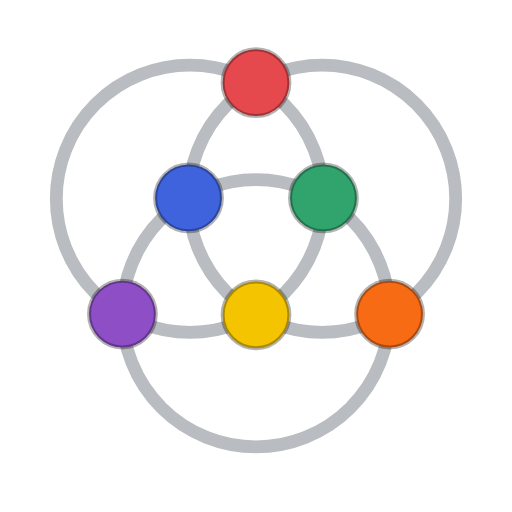
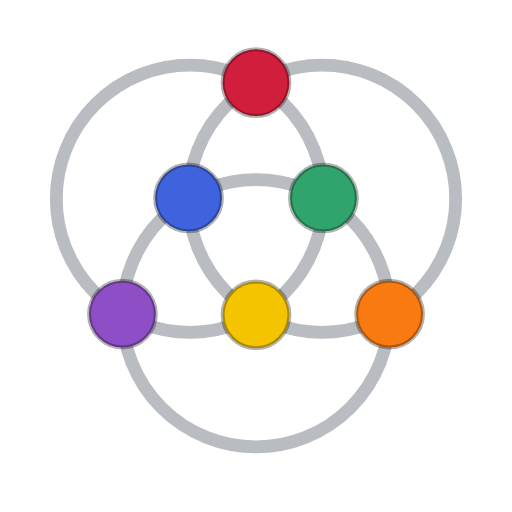
Venn: 2 turns Mon-Thu, 3 Fri-Sun from Nov 23; more distinct red and orange
- New schedule from 2026-11-23: Medium (2 turns) Mon-Thu, Hard (3 turns) Fri-Sun
- Regenerated solutions.json for 2026-11-23 to 2028-12-31
- Red #e5484d -> #d01e3c, orange #f76b15 -> #f97a10; regenerated share image and icons

Claude-Session: https://claude.ai/code/session_016MSejuF9g9PsJiVrmdxqhA

Changed region(s): [[0.4375, 0.0938, 0.5625, 0.25]]

diff --git a/static/venn/venn.js b/static/venn/venn.js
@@ -10,9 +10,9 @@
   var ASSET_BASE = (document.currentScript && document.currentScript.src || '').replace(/[^/]*$/, '');
 
   // Face colors, assigned clockwise from the top cluster, plus color-blind glyphs.
-  var PALETTE = ['#e5484d', '#30a46c', '#f76b15', '#f5c400', '#8e4ec6', '#3e63dd'];
+  var PALETTE = ['#d01e3c', '#30a46c', '#f97a10', '#f5c400', '#8e4ec6', '#3e63dd'];
   var GLYPHS = ['circle', 'triangle', 'square', 'diamond', 'plus', 'star'];
-  var FEW_COLORS = ['#3e63dd', '#f76b15', '#30a46c']; // blue, orange, green for 2- and 3-color boards
+  var FEW_COLORS = ['#3e63dd', '#f97a10', '#30a46c']; // blue, orange, green for 2- and 3-color boards
   function colorFor(p, id) { return p.colorCount <= 3 ? FEW_COLORS[id % 3] : PALETTE[id % PALETTE.length]; }
   var DAY_NAMES = ['Sunday', 'Monday', 'Tuesday', 'Wednesday', 'Thursday', 'Friday', 'Saturday'];
   var MONTHS = ['January', 'February', 'March', 'April', 'May', 'June', 'July', 'August', 'September', 'October', 'November', 'December'];

diff --git a/static/venn/engine.js b/static/venn/engine.js
@@ -550,6 +550,19 @@
         6: { label: 'Hard', layout: 2, moves: 3 },
         0: { label: 'Hard', layout: 2, moves: 3 }
       }
+    },
+    {
+      // 2 turns Monday to Thursday, 3 turns Friday to Sunday, all on 2 rings.
+      from: '2026-11-23',
+      days: {
+        1: { label: 'Medium', layout: 2, moves: 2 },
+        2: { label: 'Medium', layout: 2, moves: 2 },
+        3: { label: 'Medium', layout: 2, moves: 2 },
+        4: { label: 'Medium', layout: 2, moves: 2 },
+        5: { label: 'Hard', layout: 2, moves: 3 },
+        6: { label: 'Hard', layout: 2, moves: 3 },
+        0: { label: 'Hard', layout: 2, moves: 3 }
+      }
     }
   ];
 

diff --git a/tools/venn/engine.test.js b/tools/venn/engine.test.js
@@ -221,8 +221,8 @@ test('hint penalties: full hint 2, which-circle hint 1', () => {
 });
 
 test('free play offers the levels in the current schedule', () => {
-  assert.deepStrictEqual(E.practiceLevels(), ['Easy', 'Medium', 'Hard']);
-  assert.strictEqual(E.practicePuzzle('Easy', 's').config.moves, 1);
+  assert.deepStrictEqual(E.practiceLevels(), ['Medium', 'Hard']);
+  assert.strictEqual(E.practicePuzzle('Medium', 's').config.moves, 2);
   assert.strictEqual(E.practicePuzzle('Hard', 's').config.moves, 3);
   assert.strictEqual(E.practicePuzzle('Expert', 's').config.moves, 3, 'old links fall back to the hardest level');
 });

diff --git a/tools/venn/images.html b/tools/venn/images.html
@@ -15,7 +15,7 @@
 <canvas id="icon" style="display:none"></canvas>
 <script src="../../static/venn/engine.js"></script>
 <script>
-  var PALETTE = ['#e5484d', '#30a46c', '#f76b15', '#f5c400', '#8e4ec6', '#3e63dd'];
+  var PALETTE = ['#d01e3c', '#30a46c', '#f97a10', '#f5c400', '#8e4ec6', '#3e63dd'];
   // Draw a solved board filling a size x size canvas.
   function drawBoard(canvas, size, rings, ringWidth, pointScale, pad) {
     var p = VennEngine.buildPuzzle(VennEngine.LAYOUTS[rings]);

diff --git a/tools/venn/README.md b/tools/venn/README.md
@@ -49,6 +49,8 @@ The second schedule (from 2026-10-14, Venn #1) is the easier one after early fee
 
 The third schedule (from 2026-10-15) uses 2 rings every day: 1 turn Mon–Tue, 2 Wed–Fri, 3 Sat–Sun.
 
+The fourth schedule (from 2026-11-23) uses 2 rings every day: 2 turns Mon–Thu (Medium), 3 Fri–Sun (Hard).
+
 For example, to make Fridays a new layout starting 2026-12-04: add the layout to
 `LAYOUTS` under a new key, copy the latest schedule into a new entry with
 `from: '2026-12-04'`, change day `5`, then run `node tools/venn/solve.js 2026-12-04 2028-12-31`.
